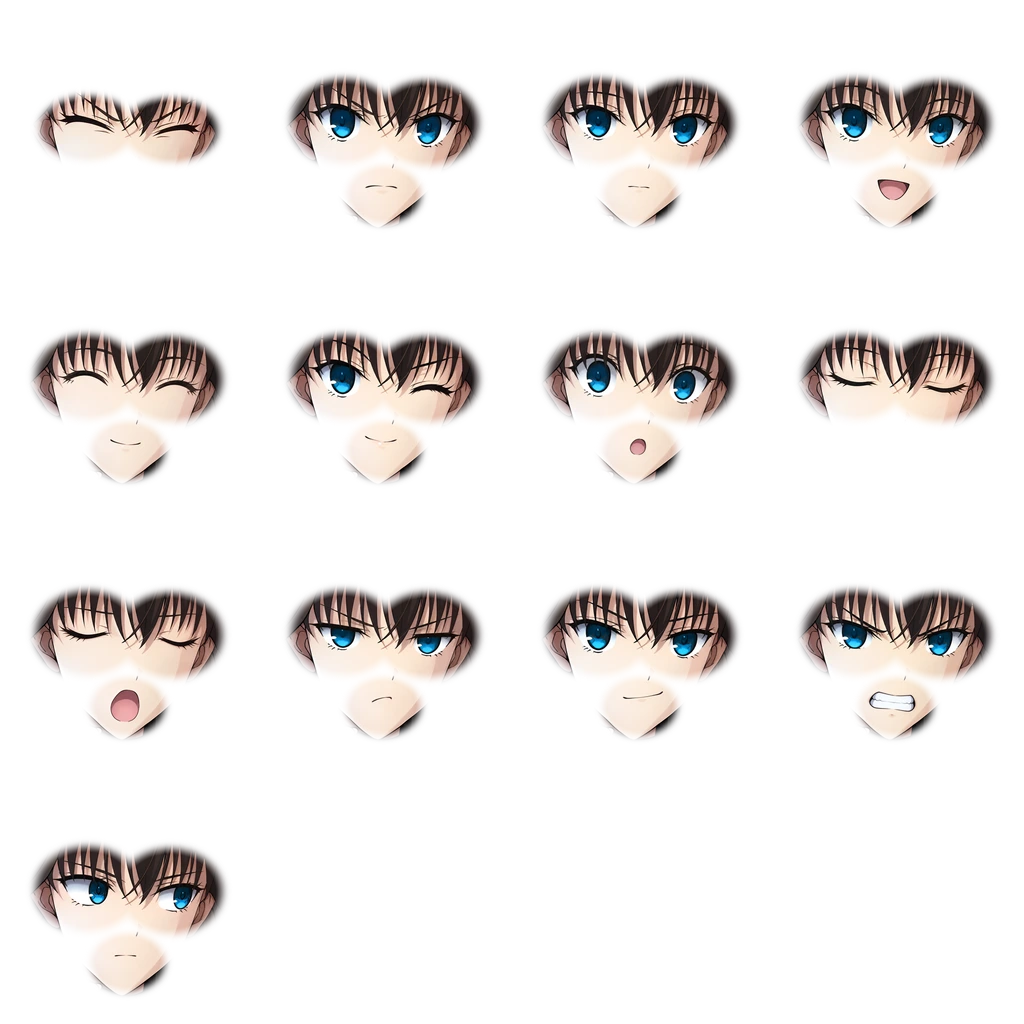
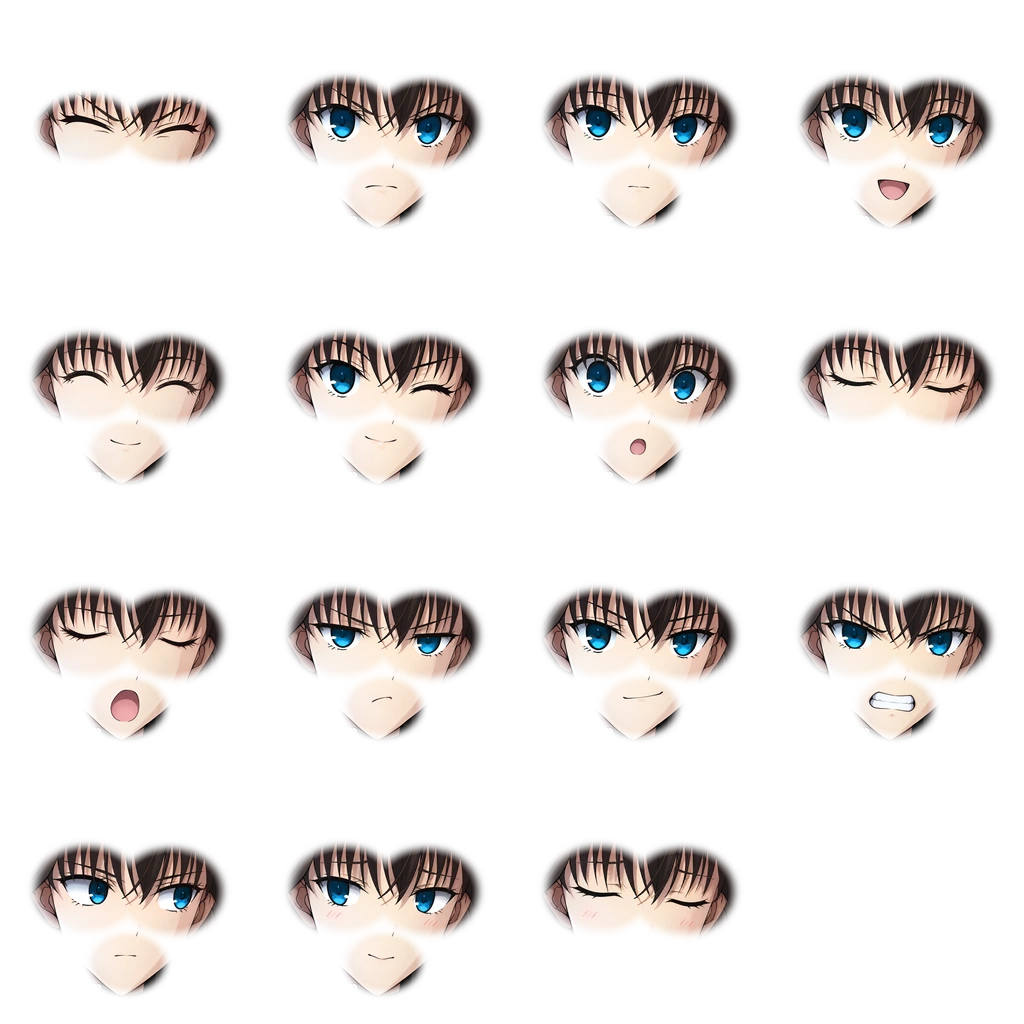
feat(space-backdrop): 青子加害羞表情，平时偶尔出现
FACES 加 shy（第 13 格）和配套闭眼格（第 14 格），IDLE 权重 1。
图集重拼成 15 格，旧的 13 格透明度不变，只有重新编码的噪声。
做法照 lyjwpage-character-art：Codex 以 face_open 为底改脸，
face_patch.py 对齐贴回，残差 3.26 / 4.11（现有各格 2.4–4.2）。
眼下的淡腮红是为了在约 88px 的脸上读得出害羞，lyjw 看过、保留。

Changed region(s): [[0.2812, 0.8125, 0.4688, 0.9688], [0.5312, 0.8125, 0.7188, 0.9375]]

diff --git a/src/components/space-backdrop/aoko-face.ts b/src/components/space-backdrop/aoko-face.ts
@@ -1,7 +1,7 @@
 import { CHARGE, CYCLE, FIRE } from "./aoko-fx";
 
 // 表情图集：FACE_COLS × FACE_ROWS 格，每格覆盖原图 FACE_BOX（x, y, 边长）这块正方形，alpha 是羽化遮罩，只盖眉眼和嘴。
-// 原图本身是喊叫脸，不占格；第 0 格是配它的挤眼闭眼。各格由 Codex 对着原图脸部改表情、以游戏立绘为表情参考生成，离线对齐后拼成。
+// 原图本身是喊叫脸，不占格；第 0 格是配它的挤眼闭眼，第 7、14 格分别是平静与害羞的闭眼。各格由 Codex 对着原图脸部改表情、以游戏立绘为表情参考生成，离线对齐后拼成。
 export const FACE_ATLAS = "/mascots/aoko-faces.webp";
 export const FACE_BOX = [360, 52, 256];
 export const FACE_COLS = 4;
@@ -21,6 +21,7 @@ const FACES = {
   smug: { tile: 10, shut: -1 },
   strain: { tile: 11, shut: -1 },
   glance: { tile: 12, shut: 7 },
+  shy: { tile: 13, shut: 14 },
 };
 type FaceName = keyof typeof FACES;
 
@@ -34,6 +35,7 @@ const IDLE: [FaceName, number][] = [
   ["wink", 1],
   ["surprised", 1],
   ["yawn", 1],
+  ["shy", 1],
 ];
 const CALM_HOLD: [number, number] = [2.5, 5];
 const IDLE_HOLD: [number, number] = [1.8, 3.5];
